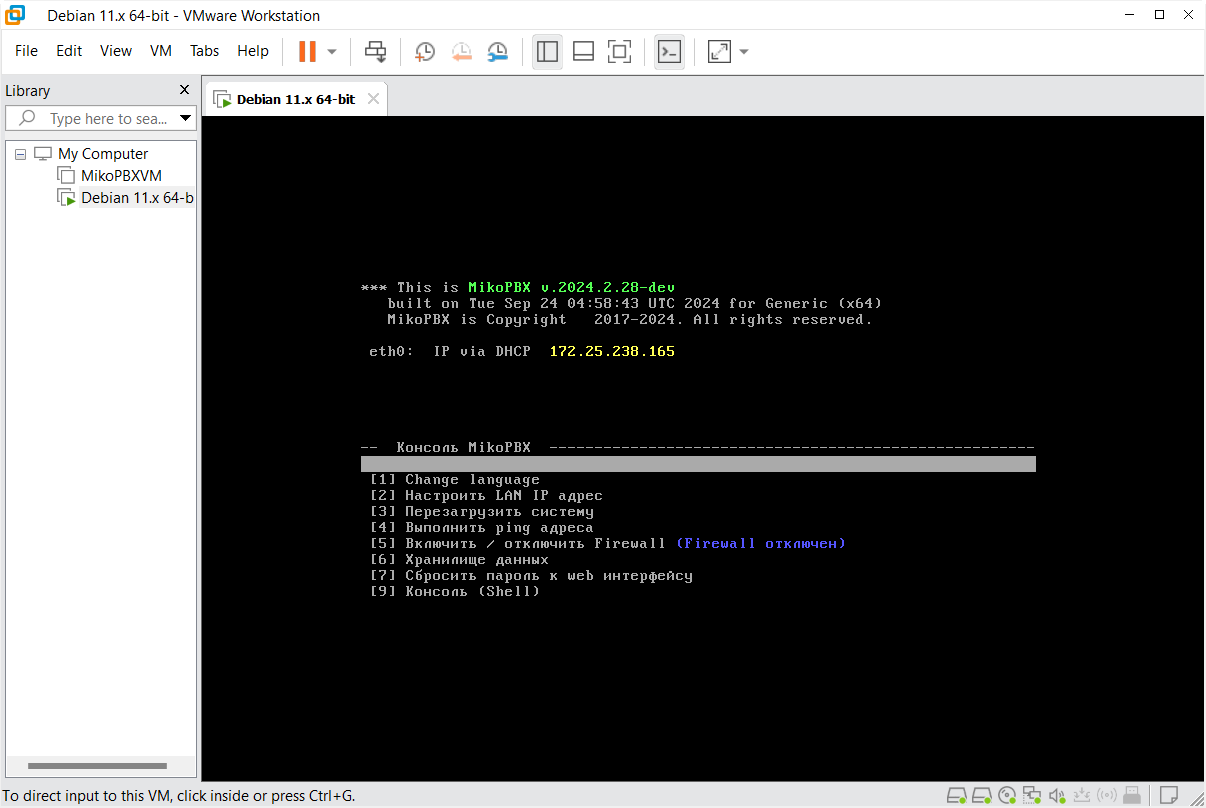
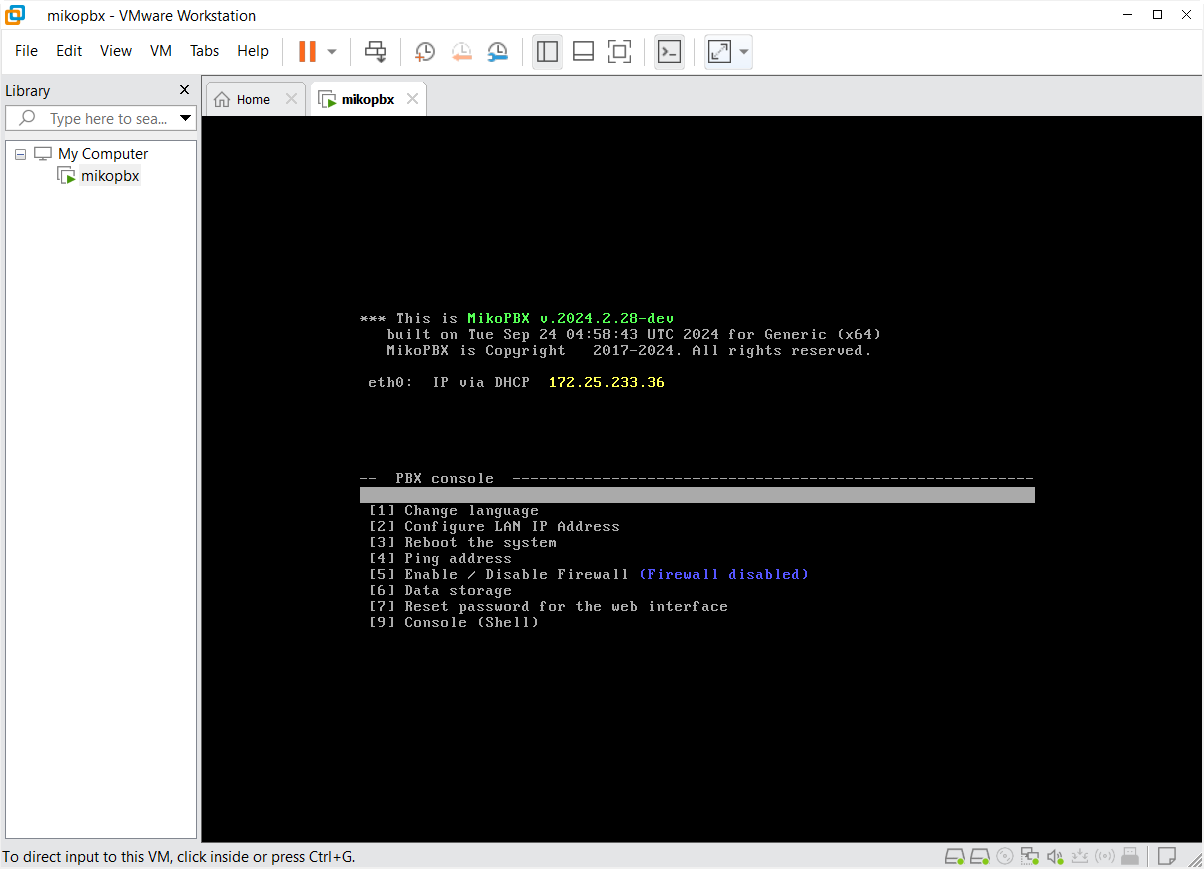
GITBOOK-680: No subject

Changed region(s): [[0.0, 0.0, 1.0, 1.0], [0.2766, 0.526, 0.8605, 0.7426], [0.3073, 0.3403, 0.7375, 0.4641]]

diff --git a/other/rukovodstvo-po-mikopbx/bystroe-nachalo-raboty.md b/other/rukovodstvo-po-mikopbx/bystroe-nachalo-raboty.md
@@ -1,0 +1,90 @@
+# Быстрое начало работы
+
+Данная инструкция подробно расскажет о пути начала работы с MikoPBX и поможет вам быстро разобраться с настройкой системы. Следуйте инструкциям **шаг-за-шагом** в том порядке, в котором они представлены для быстрой и успешной настройки системы.
+
+## Установка MikoPBX
+
+**MikoPBX** - полноценная **операционная система** для вашего оборудования, **не является отдельной программой**. Поставляется в виде образа (файл \*.iso, \*.img, \*.raw).
+
+Она поддерживает многие способы установки:
+
+* Установка [на отдельный компьютер](https://docs.mikopbx.com/mikopbx/setup/bare-metal).
+* Установка [в виртуальную машину](https://docs.mikopbx.com/mikopbx/setup/hypervisor).
+* Установка [с помощью облачных сервисов](https://docs.mikopbx.com/mikopbx/setup/cloud).
+* Установка в [Docker контейнере](https://docs.mikopbx.com/mikopbx/setup/docker).
+
+Перейдите по ссылке к интересующему Вас способу установки и произведите её по данным инструкциям.
+
+## Первый вход в веб-интерфейс
+
+После установки Вам необходимо перейти в web-интерфейс MikoPBX для дальнейшей настройки системы. Для того, чтобы это сделать - найдите IP-адрес станции в консоли MikoPBX:
+
+<figure><img src="../../.gitbook/assets/finalConsoleMikoPBX.png" alt=""><figcaption><p>Пример консоли MikoPBX</p></figcaption></figure>
+
+В данном примере - IP-адрес **172.25.233.36**. Для перехода в web-интерфейс введите этот IP в адресную строку вашего браузера:
+
+<figure><img src="../../.gitbook/assets/firstLoginToMikoPBXWEB.png" alt=""><figcaption><p>Окно входа в MikoPBX</p></figcaption></figure>
+
+{% hint style="success" %}
+Если в логах Вам не даны логин и пароль, используйте данные по-умолчанию:
+
+Username: admin
+
+Password: admin
+{% endhint %}
+
+После первой авторизации, система попросит Вас поменять пароль.
+
+## Настройки внутри web-интерфейса:
+
+### Настройки сети и сетевого экрана
+
+Для стабильной работы АТС необходимо настроить **сеть** через раздел **Сеть и Firewall** → **Сетевые интерфейсы**. Ознакомится с подробной инструкцией по данным настройкам можно [здесь](../../manual/connectivity/network.md).
+
+В MikoPBX все локальные подсети возможно описать в разделе **Сеть и Firewall** → **Сетевой экран**. Сетевой экран предназначен для ограничения доступа к станции по типу трафика и подсетям. Выполните настройку по [инструкции](../../manual/connectivity/firewall.md).
+
+***
+
+### Настройка защиты от взлома (Fail2Ban)
+
+Fail2ban блокирует IP адреса с нестандартной активностью, он способен снизить скорость неудачных попыток аутентификации, позволяет защитить Вашу АТС от взлома. Инструкцию, которая поможет в настройке можно найти [здесь](../../manual/connectivity/fail2-ban.md).
+
+***
+
+### Добавление и настройка учетных записей сотрудников
+
+После окончания первоначальной настройки АТС, Вы можете перейти к созданию учетных записей ваших сотрудников. В этом вам поможет [инструкция](../../manual/telephony/extensions.md).
+
+***
+
+### Подключение провайдеров
+
+После добавления сотрудников, Вам необходимо подключить провайдеров к вашей станции. Инструкцию про этот раздел вы можете найти [здесь](../../manual/routing/providers.md). Инструкции с примерами настройки реальных провайдеров вы можете найти [здесь](../../faq/providers/).
+
+***
+
+### Настройка входящей и исходящей маршрутизации
+
+На данном этапе необходимо задать правила маршрутизации для входящих и исходящих вызовов: как будут обрабатываться звонки, идущие через определенного провайдера:
+
+* [Маршрутизация входящих вызовов](../../manual/routing/incoming-routing.md)
+* [Маршрутизация исходящих вызовов](../../manual/routing/outbound-routing.md)
+
+Для создания правил маршрутизации Вам так же могут понадобиться следующие функции:
+
+* [Очереди вызовов](../../manual/telephony/call-queues.md)
+* [IVR-меню](../../manual/telephony/ivr-menu.md)
+* [Конференции](../../manual/telephony/conference-rooms.md)
+
+***
+
+### Маркетплейс и модули
+
+Маркетплейс позволяет расширить стандартный функционал системы с помощью модулей:
+
+* Подробнее про Модули в MikoPBX Вы можете прочитать в [этой статье](../../manual/modules/).
+* Про регистрацию в Маркетплейсе MikoPBX Вы можете прочитать в [этой статье](../../manual/modules/licensing.md).
+
+{% hint style="info" %}
+На этом основная настройка MikoPBX завершена! Для более глубокого изучения возможностей MikoPBX рекомендуем обратиться к общей документации.
+{% endhint %}

diff --git a/other/rukovodstvo-po-mikopbx/README.md b/other/rukovodstvo-po-mikopbx/README.md
@@ -10,7 +10,7 @@
 
 **MikoPBX -** это **бесплатный** сервер телефонии с операционной системой и простым, удобным веб-интерфейсом. Она работает практически с любой телефонной технологией в мире.
 
-<figure><img src="../.gitbook/assets/employyesSection.png" alt=""><figcaption><p>Интерфейс MikoPBX</p></figcaption></figure>
+<figure><img src="../../.gitbook/assets/employyesSection.png" alt=""><figcaption><p>Интерфейс MikoPBX</p></figcaption></figure>
 
 MikoPBX — это полностью модульный интерфейс для Asterisk, написанный на PHP и Javascript. Это значит, что вы можете создать любой модуль, который вам нужен, и бесплатно распространять его своим клиентам, чтобы они могли воспользоваться полезными функциями [Asterisk](http://www.asterisk.org/). Помимо этого, MikoPBX имеет очень низкие требования к аппаратному обеспечению ПК:
 
@@ -24,19 +24,21 @@ MikoPBX — это полностью модульный интерфейс дл
 
 Для начала вам следует установить MikoPBX любым удобным для вас способом. Ниже находятся опции установки. Нажав на их название - вы можете перейти к подробным профильным статьям:
 
-* Установка [на отдельный компьютер](../setup/bare-metal.md).
-* Установка [в виртуальную машину](../setup/hypervisor/).
-* Установка [с помощью облачных сервисов](../setup/cloud/).
-* Установка в [Docker контейнере](../setup/docker/).
+* Установка [на отдельный компьютер](../../setup/bare-metal.md).
+* Установка [в виртуальную машину](../../setup/hypervisor/).
+* Установка [с помощью облачных сервисов](../../setup/cloud/).
+* Установка в [Docker контейнере](../../setup/docker/).
 
 После установки вы можете перейти к изучению вашей станции. В этом вам поможет дальнейшая документация "**Руководство пользователя**", которая подробно рассказывает про конкретные разделы:&#x20;
 
-* [Телефония](../manual/telephony/).
-* [Маршрутизация](../manual/routing/).
-* [Модули](../manual/modules/).
-* [Обслуживание](../manual/maintenance/).
-* [Сеть и Firewall](../manual/connectivity/).
-* [Система](../manual/system/).
+* [Телефония](../../manual/telephony/).
+* [Маршрутизация](../../manual/routing/).
+* [Модули](../../manual/modules/).
+* [Обслуживание](../../manual/maintenance/).
+* [Сеть и Firewall](../../manual/connectivity/).
+* [Система](../../manual/system/).
+
+За дополнительной помощью по "быстрому старту", вы можете обратиться к [данной статье](bystroe-nachalo-raboty.md).
 
 ## Модули
 
@@ -44,9 +46,9 @@ MikoPBX — это полностью модульный интерфейс дл
 
 Они позволяют добавить дополнительные функции вашей системы. Разобраться в них подробнее вы можете по шагам:
 
-1. [Регистрация в Маркетплейсе MikoPBX](../manual/modules/licensing.md) - здесь подробно описан процесс регистрации и его особенности.
-2. [Управление модулями](../manual/modules/pbx-extension-modules/) - здесь подробно описан процесс установки и управления модулями.
-3. [Документация по конкретным модулям](../modules/miko/) - в этом разделе вы найдете подробное описание каждого модуля, а так же шаги по его настройки и использованию.
+1. [Регистрация в Маркетплейсе MikoPBX](../../manual/modules/licensing.md) - здесь подробно описан процесс регистрации и его особенности.
+2. [Управление модулями](../../manual/modules/pbx-extension-modules/) - здесь подробно описан процесс установки и управления модулями.
+3. [Документация по конкретным модулям](../../modules/miko/) - в этом разделе вы найдете подробное описание каждого модуля, а так же шаги по его настройки и использованию.
 
 ## Раздел FAQ
 

diff --git a/setup/hypervisor/vmware-workstation-pro.md b/setup/hypervisor/vmware-workstation-pro.md
@@ -115,7 +115,7 @@
 
     Теперь MikoPBX будет запускаться с диска **sdb**, на который вы ее установили. Увидим, что строчка «<mark style="color:red;">**The system is loaded in Recovery mode**</mark>» отсутствует. Это значит, что установка MikoPBX совершена успешно.
 
-<figure><img src="../../.gitbook/assets/finalConsoleMikoPBX.png" alt=""><figcaption><p>Успешно установленная MikoPBX</p></figcaption></figure>
+<figure><img src="../../.gitbook/assets/finalConsoleMikoPBX (1).png" alt=""><figcaption><p>Успешно установленная MikoPBX</p></figcaption></figure>
 
 ## Первый вход в MikoPBX
 
@@ -132,4 +132,4 @@
 * Пароль: admin
 {% endhint %}
 
-<figure><img src="../../.gitbook/assets/firstLoginToMikoPBXWEB.png" alt=""><figcaption><p>Страница авторизации в WEB-интерфейс MikoPBX</p></figcaption></figure>
+<figure><img src="../../.gitbook/assets/firstLoginToMikoPBXWEB (1).png" alt=""><figcaption><p>Страница авторизации в WEB-интерфейс MikoPBX</p></figcaption></figure>

diff --git a/SUMMARY.md b/SUMMARY.md
@@ -239,4 +239,5 @@
   * [MikoPBX 2024.1](other/changelog/mikopbx-2024.1.md)
   * [MikoPBX 2023.2](other/changelog/mikopbx-2023.2.md)
   * [MikoPBX 2023.1.223](other/changelog/mikopbx-2023.1.223.md)
-* [Руководство по MikoPBX](other/rukovodstvo-po-mikopbx.md)
+* [Руководство по MikoPBX](other/rukovodstvo-po-mikopbx/README.md)
+  * [Быстрое начало работы](other/rukovodstvo-po-mikopbx/bystroe-nachalo-raboty.md)
